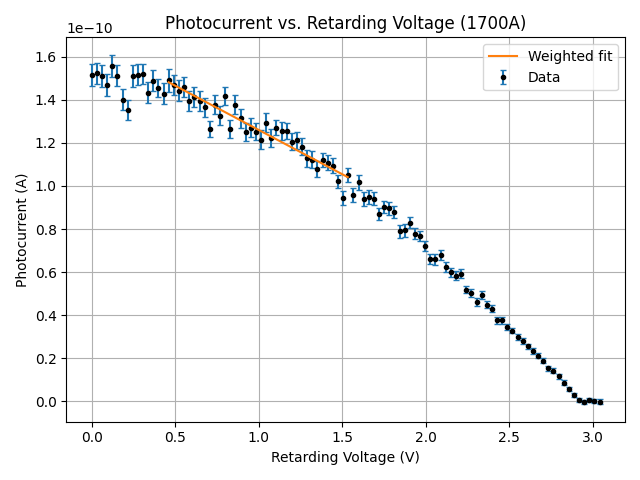
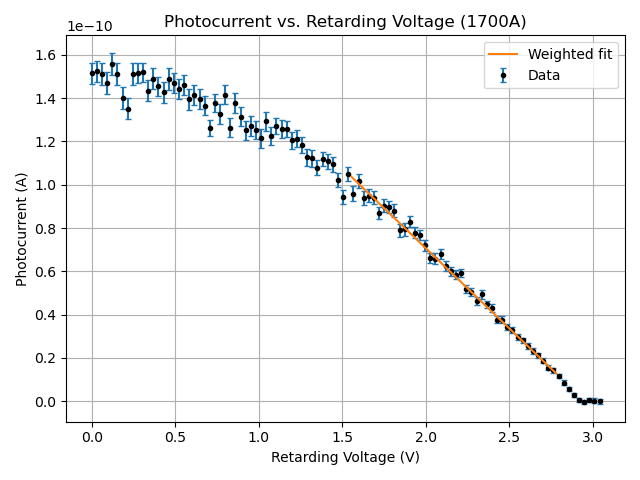
my work before pulling branch-2

diff --git a/Photoelectric Lab/analysis.py b/Photoelectric Lab/analysis.py
@@ -9,7 +9,7 @@ from Dataprocessing import process_all_data
 # choose the linear fit region for each wavelength (index range for plots)
 #fill in the parenthesis with the values we want for the plots
 fit_ranges = {
-    "1700A": (150, 500),
+    "1700A": (560, 955 ),
     "1800A": (150, 500),
     "1900A": (150, 500),
     "2000A": (150, 500),
